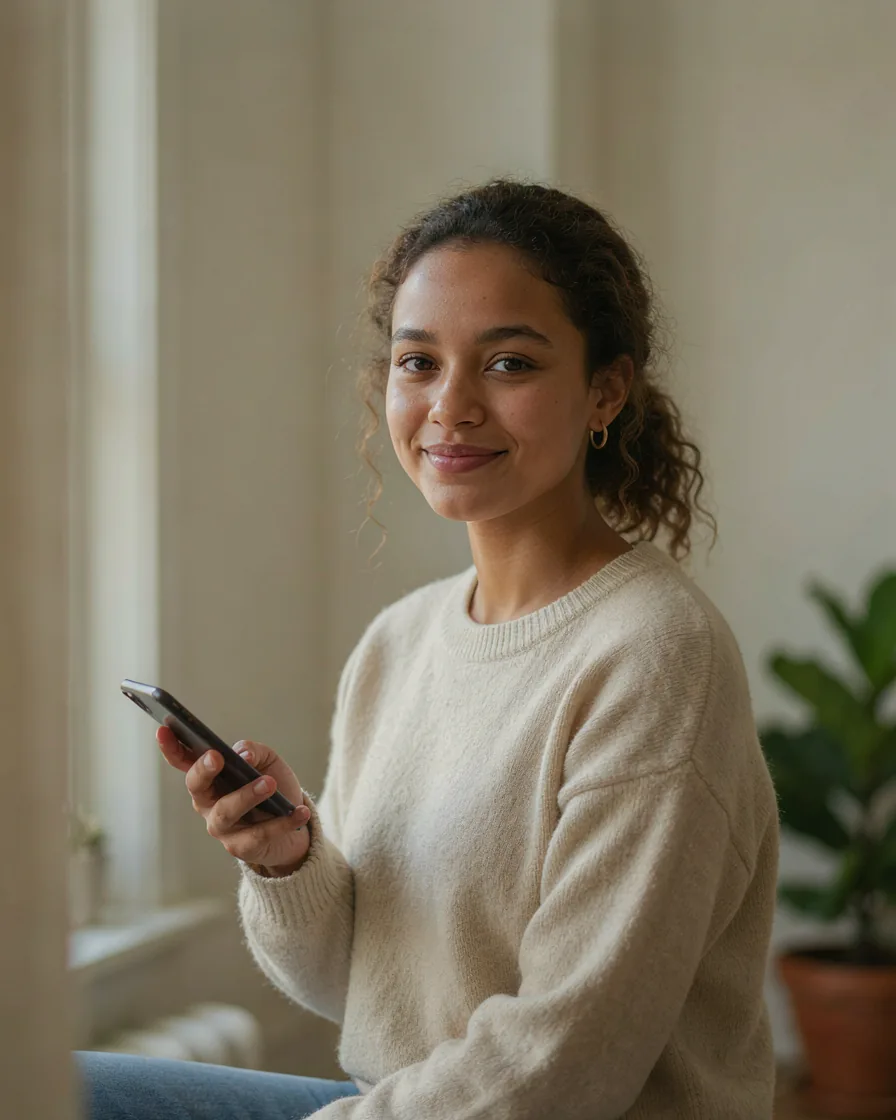
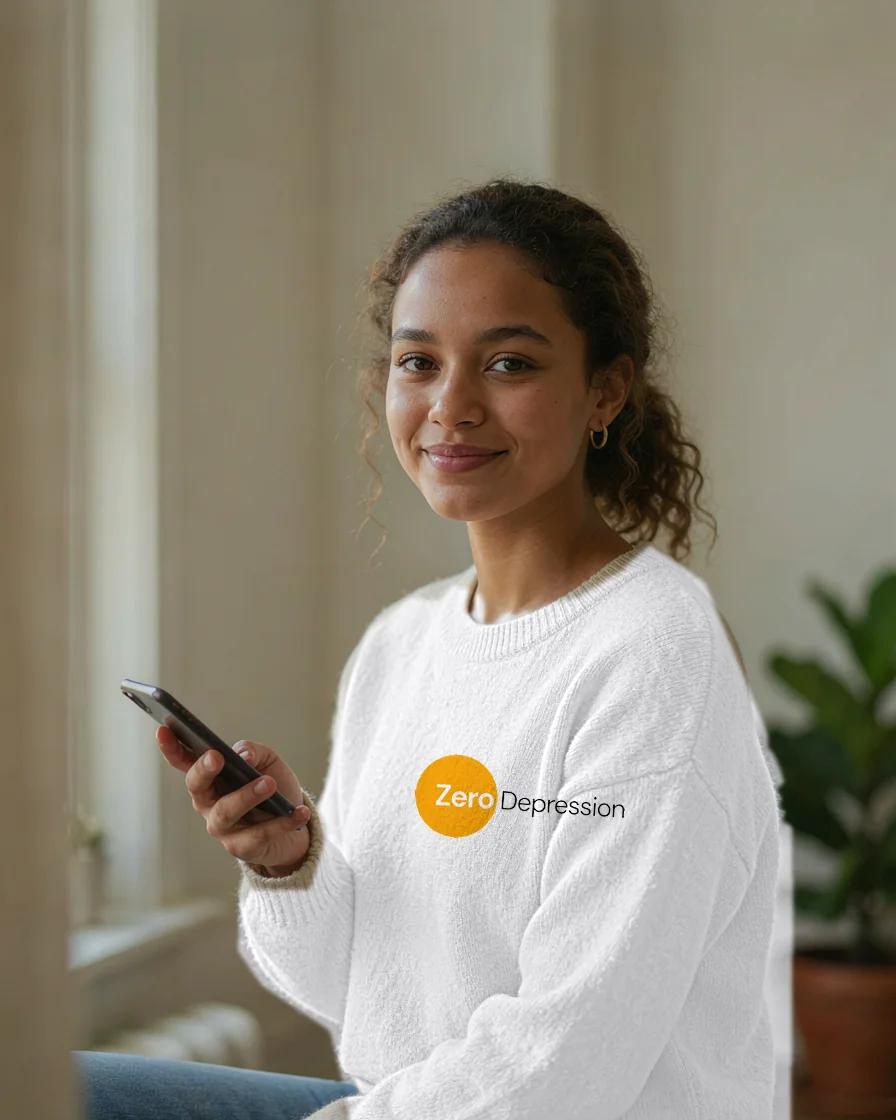
Add Outreach photo slider and white-shirt hero photo (#4)
* Add admin dashboard for managing counsellors

Admins (role: 'admin' in /counsellors) can add, rename, deactivate and promote
counsellors at /counsellor-admin/. Rules gain an admin role with tests (72 pass);
the counsellor inbox links to the admin page for admins.

Claude-Session: https://claude.ai/code/session_017VjAuh5hESeFets1ZYBnHN

* Show a photo of a person in the homepage hero

Claude-Session: https://claude.ai/code/session_017VjAuh5hESeFets1ZYBnHN

* Use the new ZeroDepression logo in the site header

Claude-Session: https://claude.ai/code/session_017VjAuh5hESeFets1ZYBnHN

* Use the white ZeroDepression logo in the site footer

Claude-Session: https://claude.ai/code/session_017VjAuh5hESeFets1ZYBnHN

* Rebuild favicon, touch icon and share image from the new brand

Claude-Session: https://claude.ai/code/session_017VjAuh5hESeFets1ZYBnHN

* Add a team photo section to the About us page

Claude-Session: https://claude.ai/code/session_017VjAuh5hESeFets1ZYBnHN

* Use an outreach photo beside 'Born from a wish to help' on the About us page

Claude-Session: https://claude.ai/code/session_017VjAuh5hESeFets1ZYBnHN

* Use the group volunteer photo in the About us hero circle

Claude-Session: https://claude.ai/code/session_017VjAuh5hESeFets1ZYBnHN

* Put the woman in the hero photo in a white shirt with the ZeroDepression logo

Claude-Session: https://claude.ai/code/session_017VjAuh5hESeFets1ZYBnHN

* Add an Outreach section with a photo slider to the landing page
[…]

Changed region(s): [[0.25, 0.4688, 0.9062, 1.0]]

diff --git a/index.html b/index.html
@@ -67,7 +67,7 @@
       </ul>
     </div>
     <div class="hero-art hero-art--photo">
-      <img src="/assets/img/hero-person.webp" alt="A smiling young woman sitting by a window, holding a phone" width="896" height="1120" fetchpriority="high">
+      <img src="/assets/img/hero-person.webp" alt="A smiling young woman in a white ZeroDepression t-shirt, sitting by a window and holding a phone" width="896" height="1120" fetchpriority="high">
       <div class="float-card float-card--a"><span class="dot"></span><div><strong>Toll-free line</strong>0800 1100 2200</div></div>
       <div class="float-card float-card--b"><svg viewBox="0 0 24 24" fill="none" stroke="currentColor" stroke-width="2" stroke-linecap="round" stroke-linejoin="round" aria-hidden="true" focusable="false" style="width:22px;height:22px;color:var(--sage)"><rect x="3" y="11" width="18" height="11" rx="2"/><path d="M7 11V7a5 5 0 0 1 10 0v4"/></svg><div><strong>Your identity stays private</strong>We never ask who you are</div></div>
     </div>
@@ -136,6 +136,28 @@
   <img src="/assets/img/team/olusola.webp" alt="Ajibade Olusola" width="480" height="600" loading="lazy">
   <div class="person-body"><p class="person-role">Counsellor</p><h3>Ajibade Olusola</h3><p>Understands how hard life&#x27;s hurdles can get, and uses positive words of affirmation to encourage people.</p></div>
 </article></div>
+  </div>
+</section>
+
+<section class="section section--white" id="outreach">
+  <div class="container">
+    <div class="section-head reveal">
+      <p class="eyebrow">Outreach</p>
+      <h2>Federal University of Technology, Owerri. Mental Health Walk.</h2>
+      <p class="lead">Our volunteers took to the road to talk about mental health and to let people know that free, anonymous counselling is a call away.</p>
+    </div>
+    <div class="slider reveal" data-slider role="region" aria-roledescription="carousel" aria-label="Mental Health Walk photos">
+      <ul class="slider-track" tabindex="0" aria-label="Photos from the Mental Health Walk">
+        <li class="slide" id="outreach-slide-1" role="group" aria-roledescription="slide" aria-label="1 of 5"><img src="/assets/img/outreach-1.webp" alt="Two volunteers in white t-shirts handing out flyers to students under a large tree on campus" width="1400" height="933"></li>
+        <li class="slide" id="outreach-slide-2" role="group" aria-roledescription="slide" aria-label="2 of 5"><img src="/assets/img/outreach-2.webp" alt="A volunteer sharing a flyer with a group of motorbike riders at a roadside" width="1400" height="933" loading="lazy"></li>
+        <li class="slide" id="outreach-slide-3" role="group" aria-roledescription="slide" aria-label="3 of 5"><img src="/assets/img/outreach-3.webp" alt="A volunteer handing a flyer to a man outside a small market stall" width="1400" height="933" loading="lazy"></li>
+        <li class="slide" id="outreach-slide-4" role="group" aria-roledescription="slide" aria-label="4 of 5"><img src="/assets/img/outreach-4.webp" alt="Volunteers in white and blue t-shirts cheering together after the walk as dusk falls" width="1400" height="933" loading="lazy"></li>
+        <li class="slide" id="outreach-slide-5" role="group" aria-roledescription="slide" aria-label="5 of 5"><img src="/assets/img/outreach-5.webp" alt="A volunteer addressing a circle of volunteers on the road before heading out with flyers" width="1400" height="933" loading="lazy"></li>
+      </ul>
+      <button class="slider-btn slider-btn--prev" type="button" data-slider-prev aria-label="Previous photo"><svg viewBox="0 0 24 24" fill="none" stroke="currentColor" stroke-width="2.5" stroke-linecap="round" stroke-linejoin="round" aria-hidden="true" focusable="false"><polyline points="15 18 9 12 15 6"/></svg></button>
+      <button class="slider-btn slider-btn--next" type="button" data-slider-next aria-label="Next photo"><svg viewBox="0 0 24 24" fill="none" stroke="currentColor" stroke-width="2.5" stroke-linecap="round" stroke-linejoin="round" aria-hidden="true" focusable="false"><polyline points="9 18 15 12 9 6"/></svg></button>
+      <div class="slider-dots" data-slider-dots></div>
+    </div>
   </div>
 </section>
 

diff --git a/assets/js/site.js b/assets/js/site.js
@@ -247,4 +247,80 @@
       "Message sent. Thank you, we'll be in touch."
     );
   });
+  /* Photo slider */
+  $$("[data-slider]").forEach(function (slider) {
+    var track = $(".slider-track", slider);
+    var slides = $$(".slide", slider);
+    var prev = $("[data-slider-prev]", slider);
+    var next = $("[data-slider-next]", slider);
+    var dotsBox = $("[data-slider-dots]", slider);
+    if (!track || slides.length < 2) return;
+    var index = 0;
+    var timer = null;
+    var settle = null;
+    var moving = false;
+    var reduce = window.matchMedia && window.matchMedia("(prefers-reduced-motion: reduce)").matches;
+
+    var dots = slides.map(function (_, i) {
+      var b = document.createElement("button");
+      b.type = "button";
+      b.className = "slider-dot";
+      b.setAttribute("aria-label", "Show photo " + (i + 1));
+      b.addEventListener("click", function () { go(i, true); });
+      dotsBox.appendChild(b);
+      return b;
+    });
+
+    function paint() {
+      dots.forEach(function (d, i) { d.setAttribute("aria-current", i === index ? "true" : "false"); });
+      prev.disabled = index === 0;
+      next.disabled = index === slides.length - 1;
+    }
+
+    function go(i, user) {
+      index = Math.max(0, Math.min(slides.length - 1, i));
+      moving = true;
+      clearTimeout(settle);
+      settle = setTimeout(function () { moving = false; }, 700);
+      track.scrollTo({ left: slides[index].offsetLeft - track.offsetLeft, behavior: reduce ? "auto" : "smooth" });
+      paint();
+      if (user) stop();
+    }
+
+    function stop() { if (timer) { clearInterval(timer); timer = null; } }
+    function start() {
+      if (reduce || timer) return;
+      timer = setInterval(function () { go(index === slides.length - 1 ? 0 : index + 1, false); }, 5000);
+    }
+
+    prev.addEventListener("click", function () { go(index - 1, true); });
+    next.addEventListener("click", function () { go(index + 1, true); });
+    track.addEventListener("keydown", function (e) {
+      if (e.key === "ArrowLeft") { e.preventDefault(); go(index - 1, true); }
+      if (e.key === "ArrowRight") { e.preventDefault(); go(index + 1, true); }
+    });
+
+    // keep the dots in step with swipes and scrolling
+    var ticking = false;
+    track.addEventListener("scroll", function () {
+      if (ticking || moving) return;
+      ticking = true;
+      requestAnimationFrame(function () {
+        ticking = false;
+        var i = Math.round(track.scrollLeft / track.clientWidth);
+        if (i !== index && i >= 0 && i < slides.length) { index = i; paint(); }
+      });
+    }, { passive: true });
+    track.addEventListener("pointerdown", stop);
+    slider.addEventListener("mouseenter", stop);
+    slider.addEventListener("focusin", stop);
+
+    // autoplay only while the slider is on screen
+    if ("IntersectionObserver" in window) {
+      new IntersectionObserver(function (entries) {
+        entries[0].isIntersecting ? start() : stop();
+      }, { threshold: 0.4 }).observe(slider);
+    }
+    paint();
+  });
 })();

diff --git a/assets/css/site.css b/assets/css/site.css
@@ -1673,6 +1673,136 @@ dialog.modal::backdrop {
   transform: none;
 }
 
+/* Photo slider (outreach) */
+.slider {
+  position: relative;
+}
+
+.slider-track {
+  display: flex;
+  margin: 0;
+  padding: 0;
+  list-style: none;
+  overflow-x: auto;
+  scroll-snap-type: x mandatory;
+  scroll-behavior: smooth;
+  scrollbar-width: none;
+  border-radius: 28px;
+  box-shadow: var(--shadow);
+  background: var(--sand);
+}
+
+.slider-track::-webkit-scrollbar {
+  display: none;
+}
+
+.slider-track:focus-visible {
+  outline: 3px solid var(--amber);
+  outline-offset: 4px;
+}
+
+.slide {
+  flex: 0 0 100%;
+  scroll-snap-align: center;
+}
+
+.slide img {
+  display: block;
+  width: 100%;
+  height: auto;
+  aspect-ratio: 3 / 2;
+  object-fit: cover;
+}
+
+.slider-btn {
+  position: absolute;
+  top: 50%;
+  display: grid;
+  place-items: center;
+  width: 48px;
+  height: 48px;
+  padding: 0;
+  border: 0;
+  border-radius: 50%;
+  background: var(--white);
+  color: var(--ink);
+  box-shadow: var(--shadow);
+  transform: translateY(-50%);
+  cursor: pointer;
+  transition: background 0.2s ease, opacity 0.2s ease;
+}
+
+.slider-btn:hover {
+  background: var(--sand);
+}
+
+.slider-btn:focus-visible {
+  outline: 3px solid var(--amber);
+  outline-offset: 2px;
+}
+
+.slider-btn[disabled] {
+  opacity: 0.4;
+  cursor: default;
+}
+
+.slider-btn svg {
+  width: 22px;
+  height: 22px;
+}
+
+.slider-btn--prev {
+  left: 14px;
+}
+
+.slider-btn--next {
+  right: 14px;
+}
+
+.slider-dots {
+  display: flex;
+  justify-content: center;
+  gap: 8px;
+  margin-top: 18px;
+}
+
+.slider-dot {
+  width: 10px;
+  height: 10px;
+  padding: 0;
+  border: 0;
+  border-radius: 50%;
+  background: var(--line);
+  cursor: pointer;
+}
+
+.slider-dot[aria-current="true"] {
+  background: var(--amber);
+  transform: scale(1.25);
+}
+
+.slider-dot:focus-visible {
+  outline: 3px solid var(--amber);
+  outline-offset: 3px;
+}
+
+@media (max-width: 760px) {
+  .slider-btn {
+    width: 40px;
+    height: 40px;
+  }
+
+  .slider-track {
+    border-radius: 20px;
+  }
+}
+
+@media (prefers-reduced-motion: reduce) {
+  .slider-track {
+    scroll-behavior: auto;
+  }
+}
+
 @media (prefers-reduced-motion: reduce) {
   html {
     scroll-behavior: auto;
